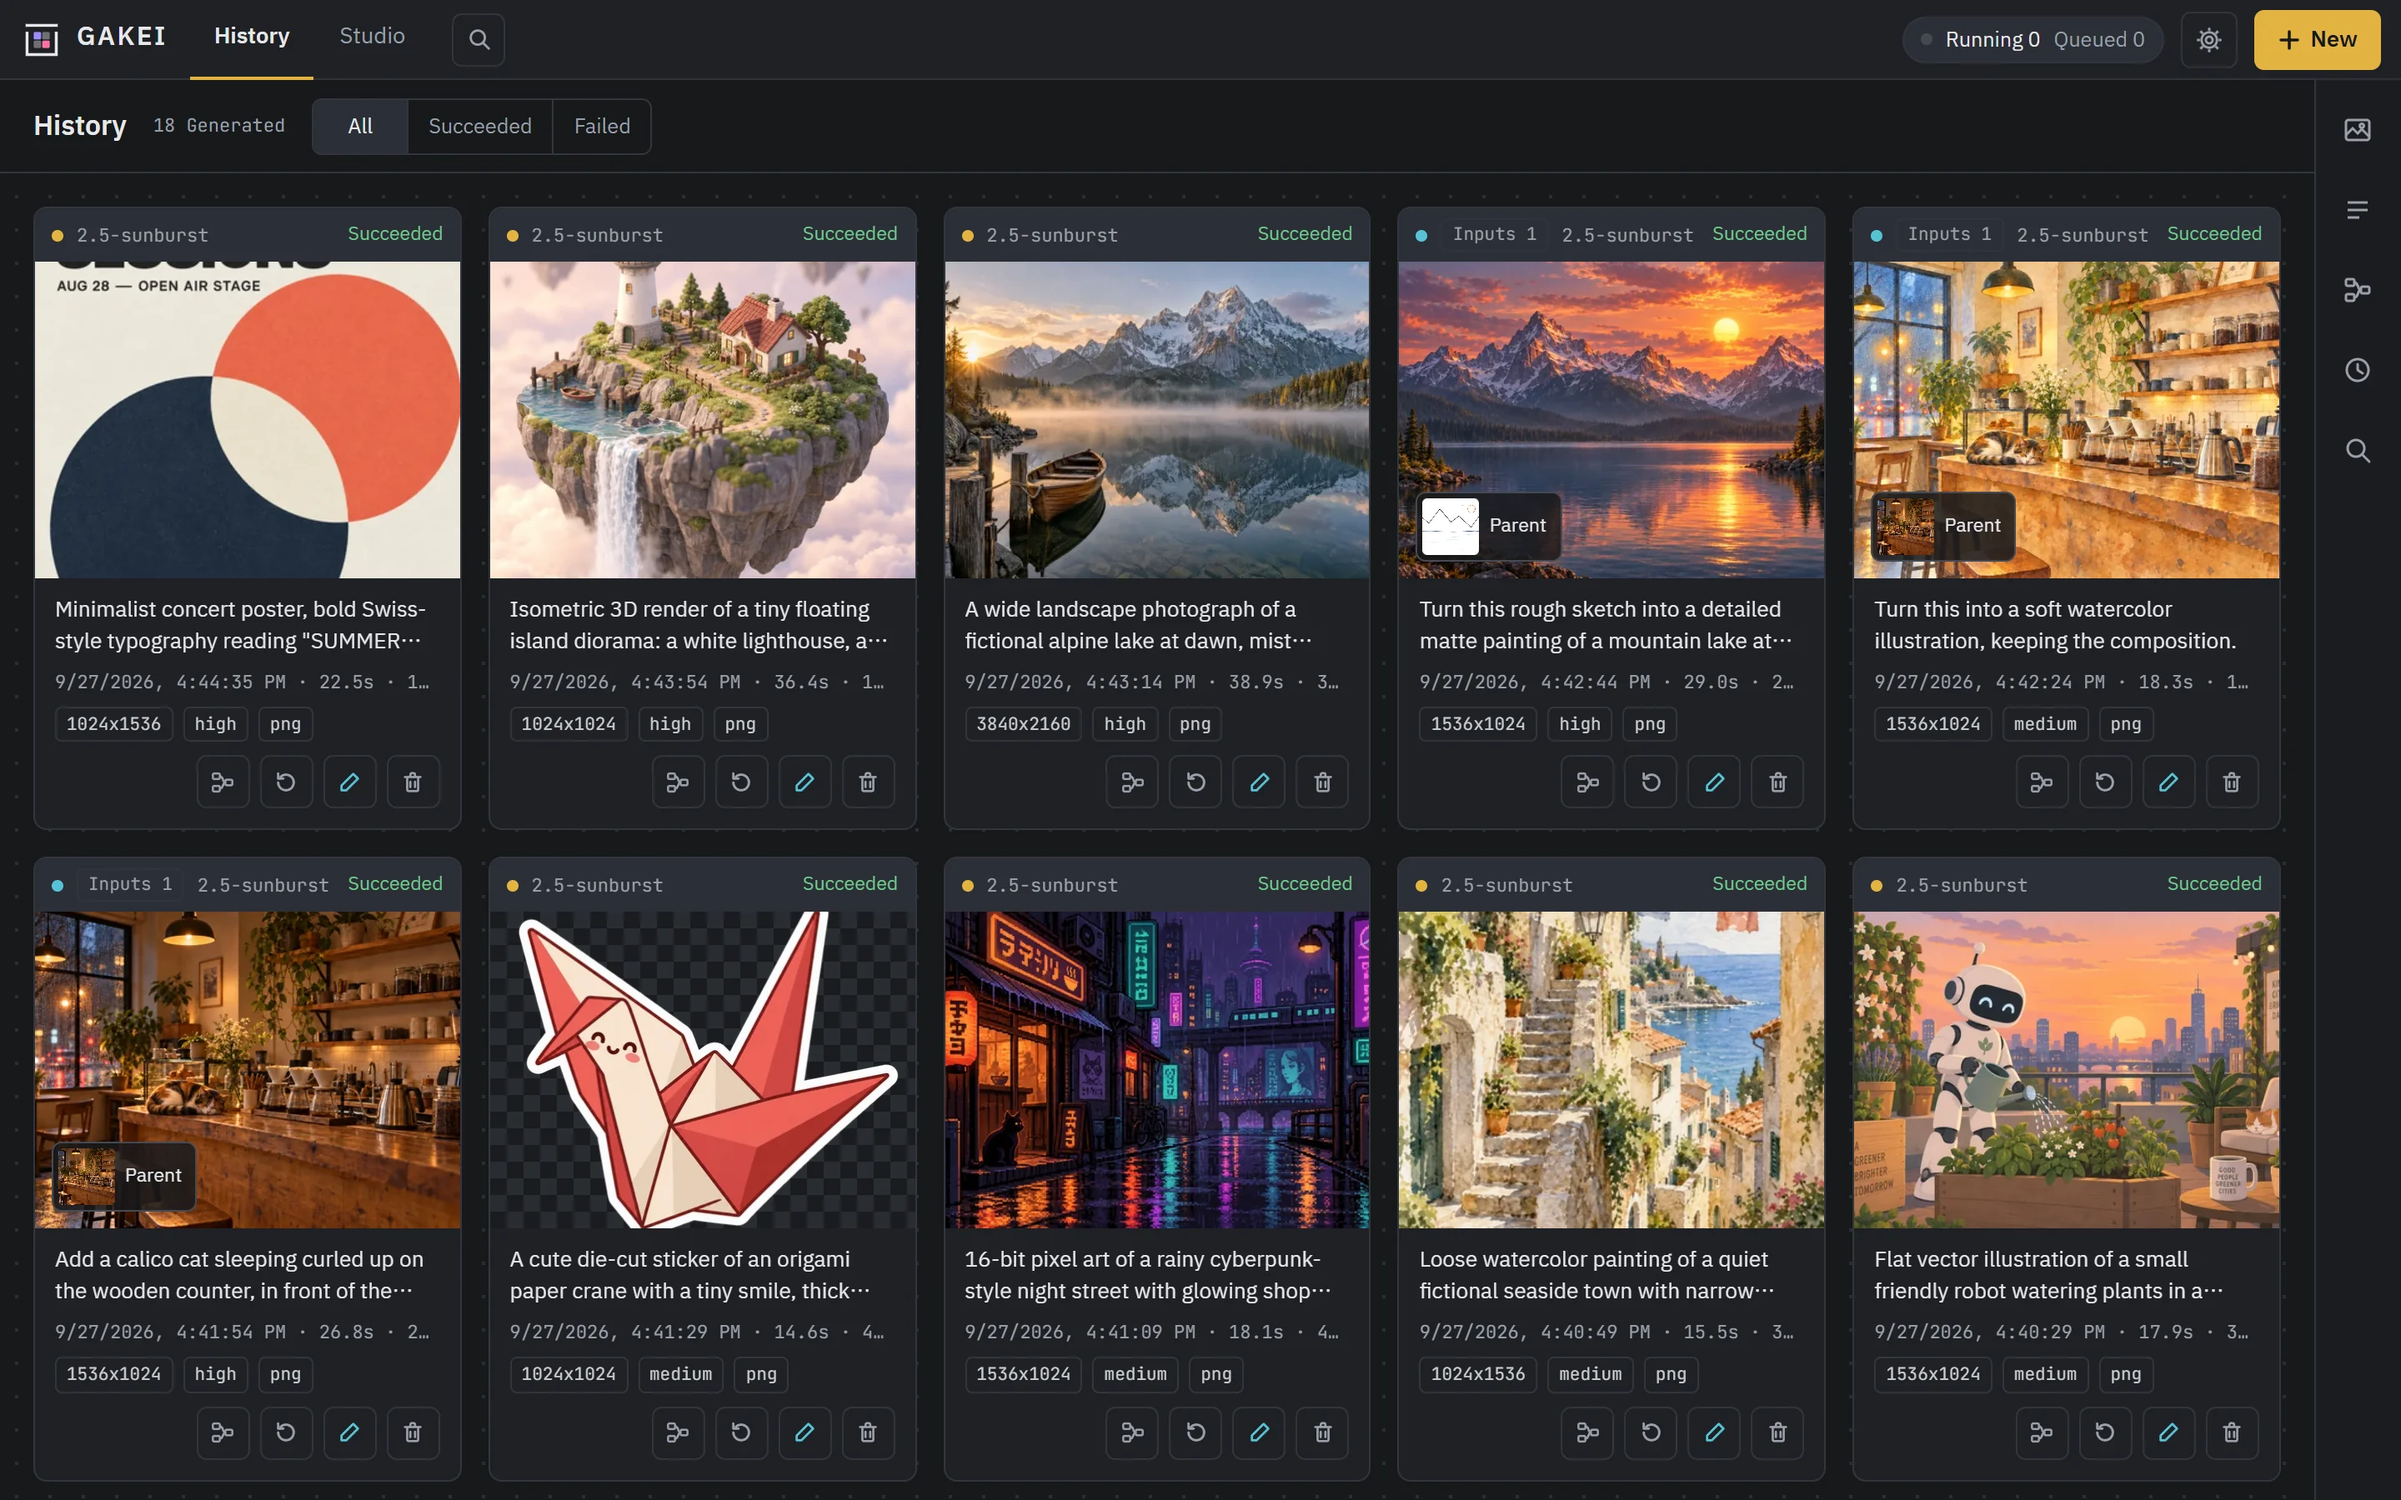
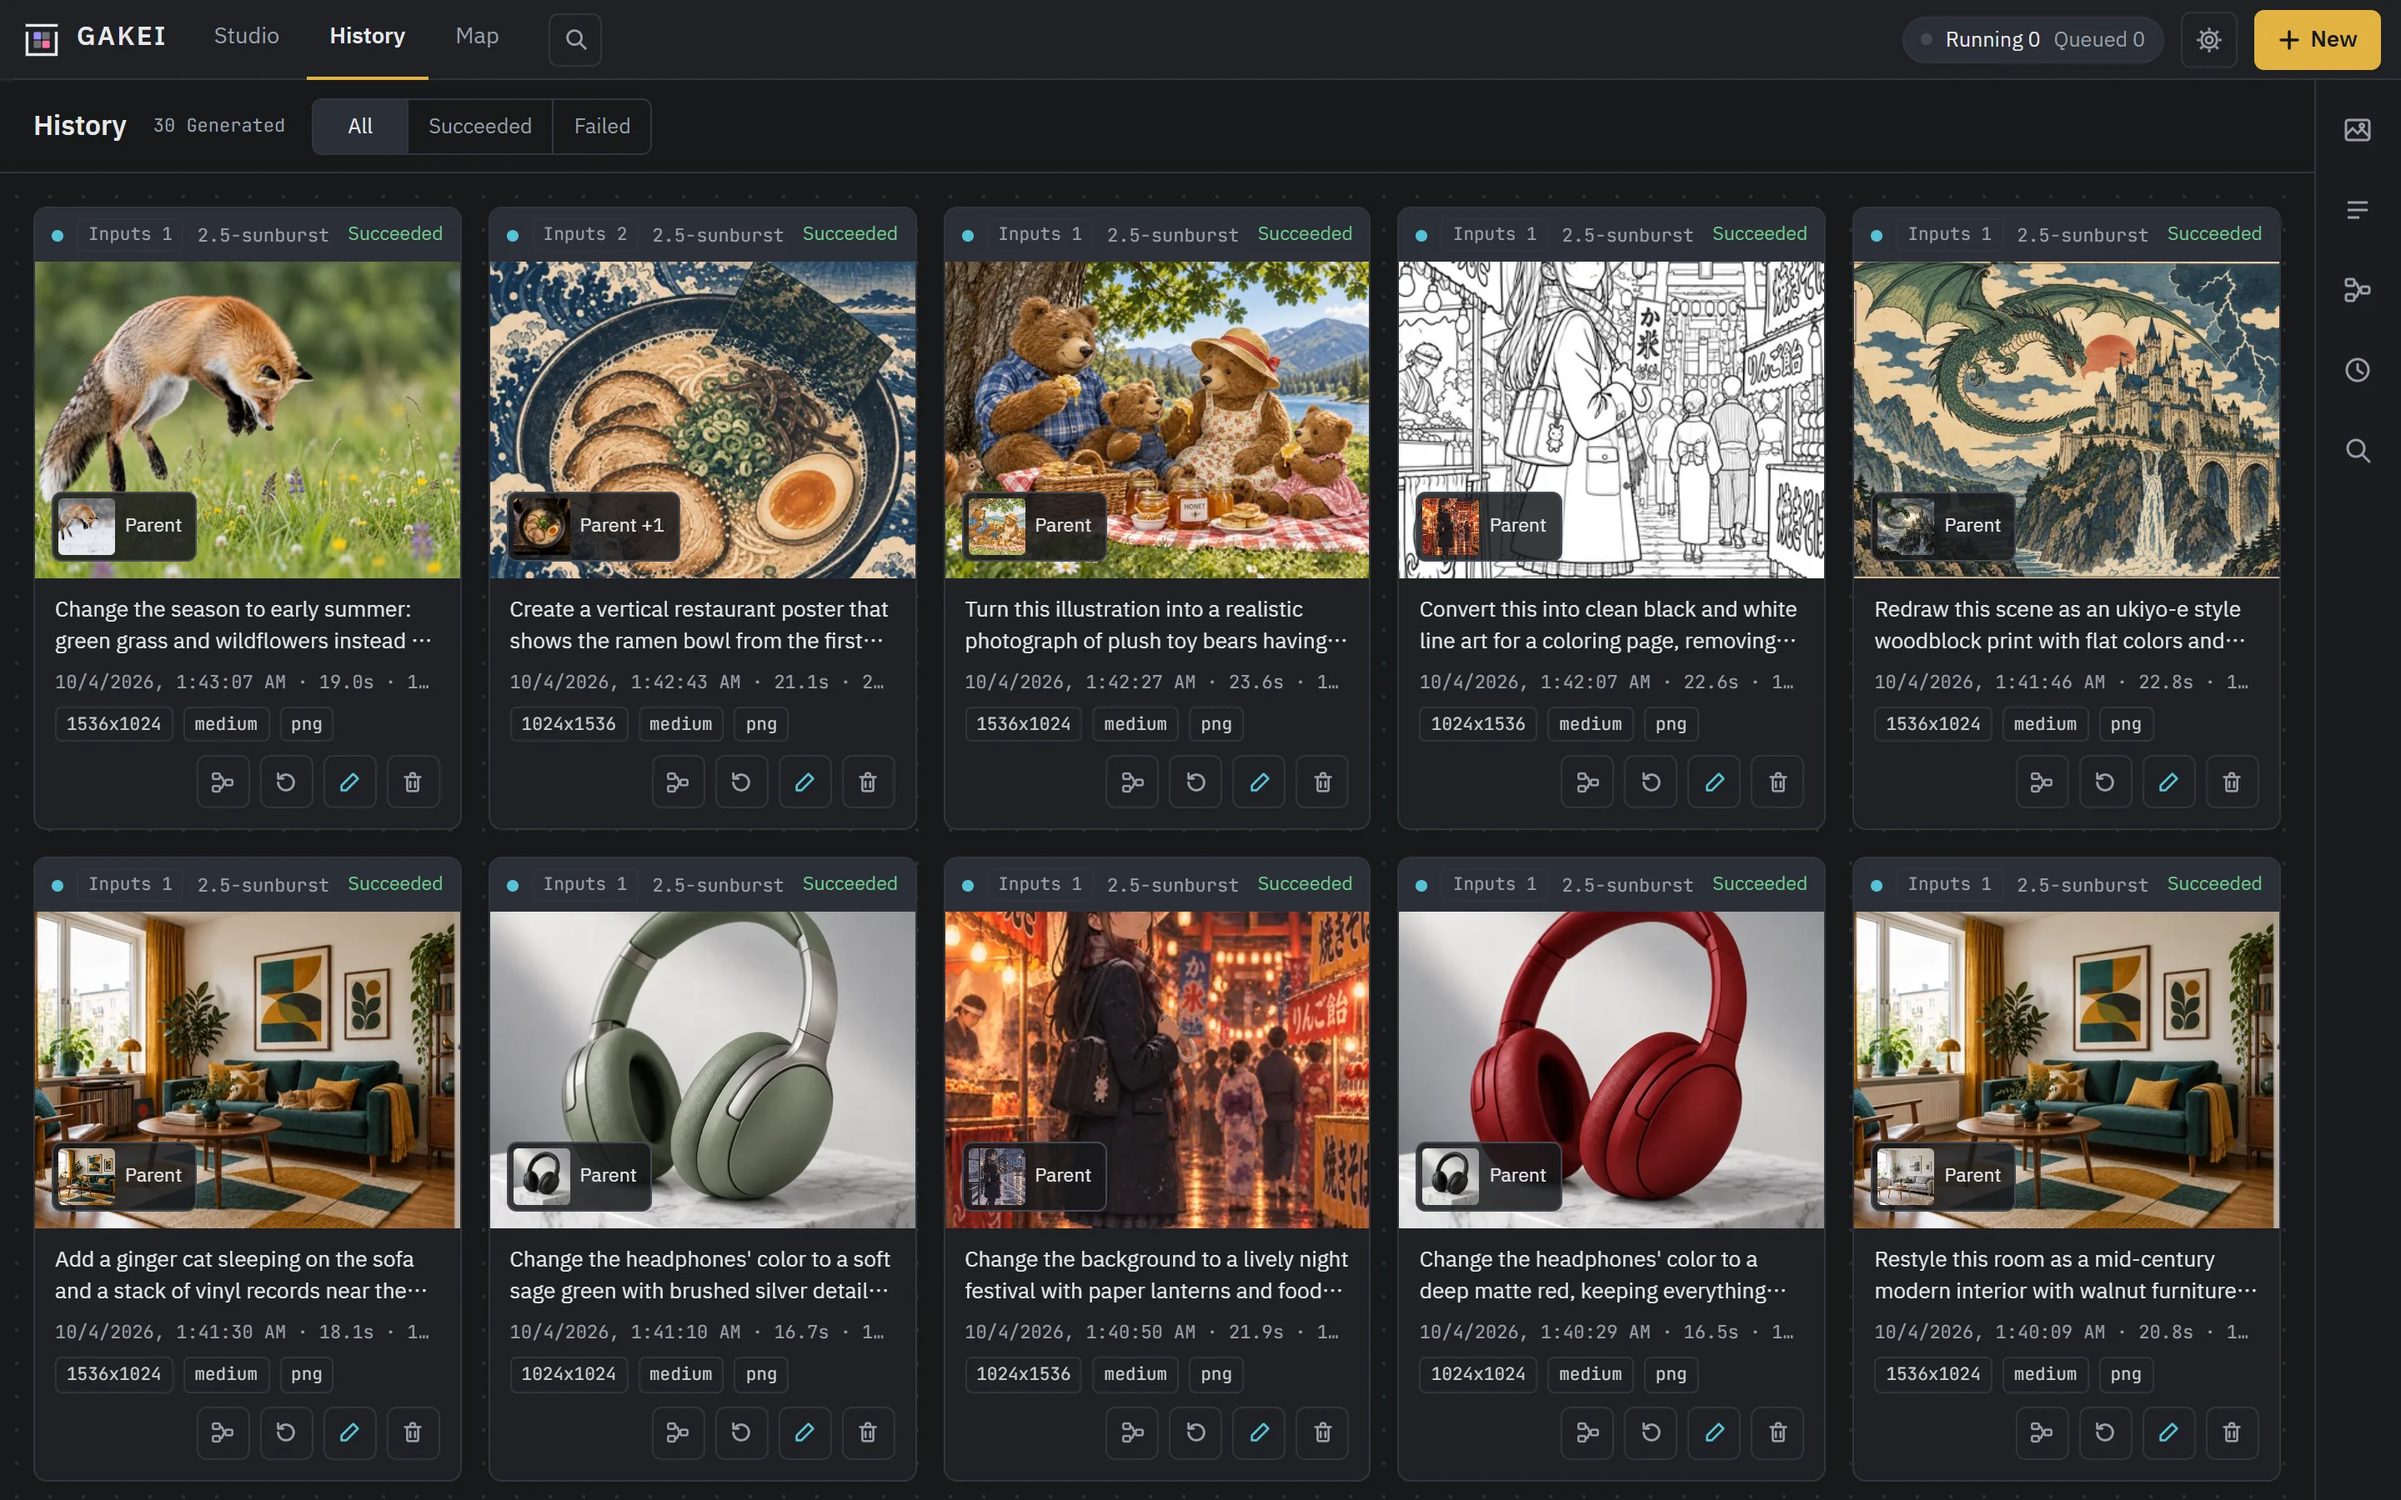
README: スクリーンショットを撮り直し、マップと意味での検索を足す
メニューの構成が変わったので、既存の7枚(履歴、生成、ビューア、系列グラフ、
詳細、スケッチ、比較)を日本語版・英語版とも撮り直す。画像の埋め込み
(ADR-0033)の画面として、マップ(ネットワークに系列の辺を重ねた表示)と
意味での検索を表に加える。

Claude-Session: https://claude.ai/code/session_0156nvRuoCuEgnCFvKbbuHSh

diff --git a/README.md b/README.md
@@ -30,6 +30,8 @@ OpenAI API のキーがあれば動く。画像はローカルのディレクト
 | ![系列グラフ](docs/images/lineage-ja.webp) | ![編集前と比較](docs/images/compare-ja.webp) |
 | **Generated の詳細と系列** | **スケッチを描いて入力にする** |
 | ![Generated の詳細と系列](docs/images/detail-ja.webp) | ![スケッチを描いて入力にする](docs/images/sketch-ja.webp) |
+| **マップ(似た画像のネットワークと系列)** | **意味で検索(「和風の版画」)** |
+| ![マップ(似た画像のネットワークと系列)](docs/images/map-ja.webp) | ![意味で検索(「和風の版画」)](docs/images/semantic-ja.webp) |
 
 スクリーンショット内の画像は、手描きのスケッチを除き GPT Image 2.5 で生成したサンプル。
 

diff --git a/README.en.md b/README.en.md
@@ -30,6 +30,8 @@ All it needs is an OpenAI API key. Images are stored in a local directory and me
 | ![Lineage graph](docs/images/lineage-en.webp) | ![Compare before and after an edit](docs/images/compare-en.webp) |
 | **Run details with the lineage sidebar** | **Drawing a sketch to use as input** |
 | ![Run details with the lineage sidebar](docs/images/detail-en.webp) | ![Drawing a sketch to use as input](docs/images/sketch-en.webp) |
+| **Map (network of similar images with lineage)** | **Semantic search ("Japanese woodblock print")** |
+| ![Map (network of similar images with lineage)](docs/images/map-en.webp) | ![Semantic search ("Japanese woodblock print")](docs/images/semantic-en.webp) |
 
 Except for the hand-drawn sketches, all images in the screenshots are samples generated with GPT Image 2.5.
 
